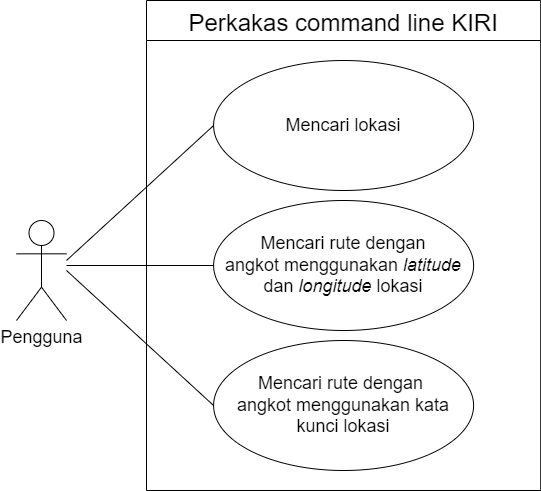
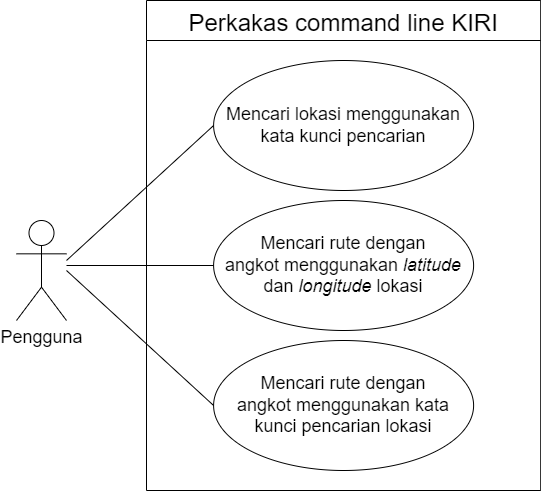
Updated chapter 3's UML

Changed region(s): [[0.414, 0.2138, 0.8577, 0.3055], [0.4732, 0.8554, 0.7985, 0.8859], [0.4732, 0.7637, 0.7985, 0.7943]]

diff --git a/doc/DokumenSkripsi/Bab/bab3.tex b/doc/DokumenSkripsi/Bab/bab3.tex
@@ -422,9 +422,3 @@ Perkakas \cl ini akan memiliki tiga fitur, yaitu pencarian lokasi dengan kata ku
     \caption{\textit{Scenario case} untuk fitur pencarian rute dengan angkot, dengan kata kunci pencarian lokasi awal dan akhir sebagai masukan.}
     \label{tab:thesisapp-scenariocase-findroutedirect}
 \end{table}
-
-\subsection{\textit{Activity Diagram}}
-\label{sec:analysis-diagrams-activity}
-
-\subsection{\textit{Sequence Diagram}}
-\label{sec:analysis-diagrams-sequence}
